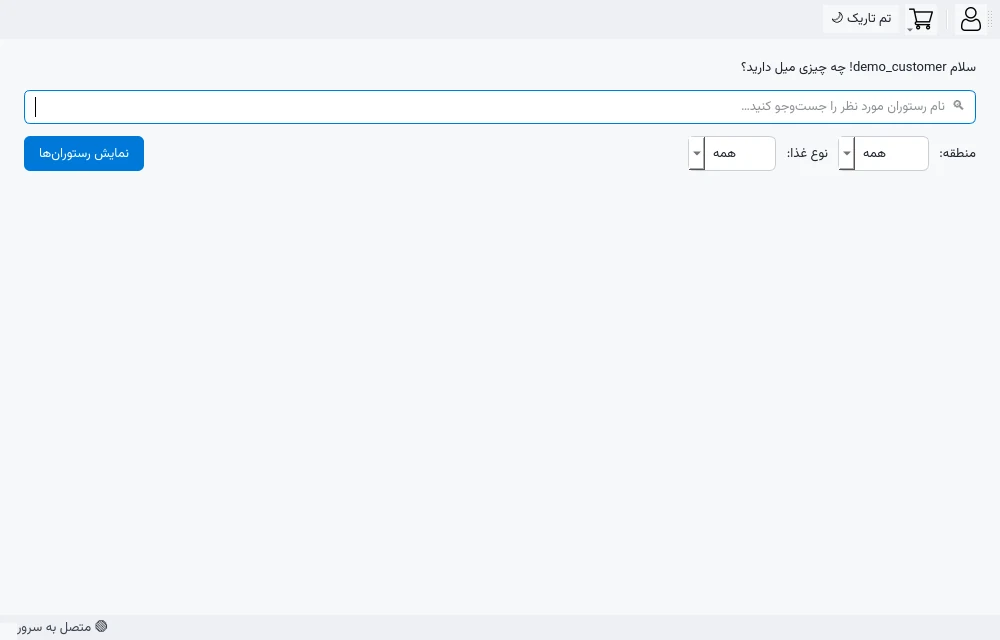
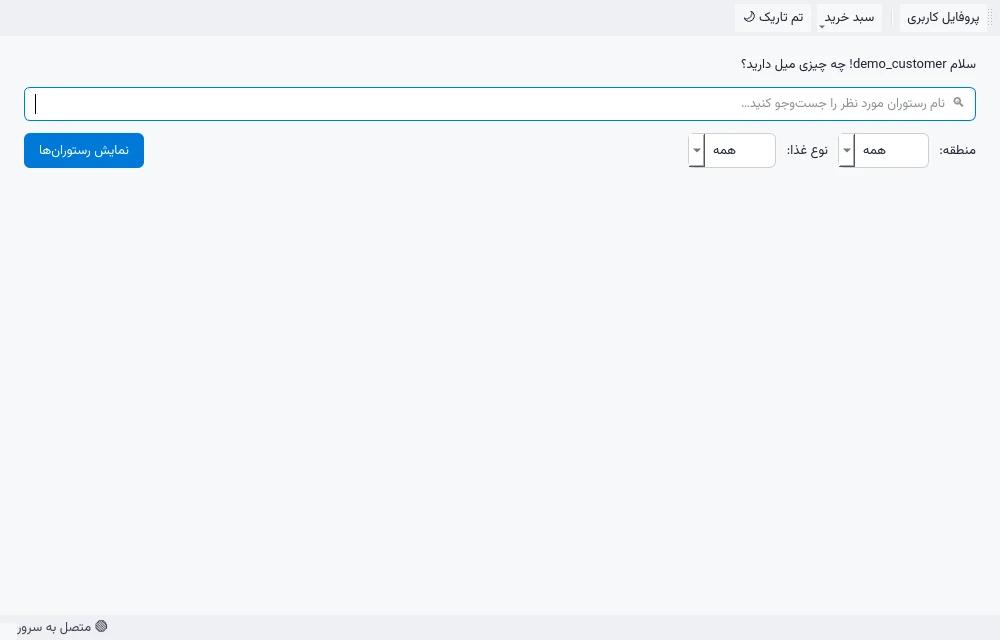
docs: v2.8.0 release notes, a real architecture guide and a fresh gallery

diff --git a/src/common/version.h b/src/common/version.h
@@ -9,6 +9,6 @@
 //! the release now means changing exactly one line here (plus
 //! CHANGELOG.md).  The old hand-synced QStringLiteral("x.y.z") copies
 //! drifted (the screenshot driver still claimed 2.0.0 in v2.5).
-#define IUT_FOOD_VERSION "2.7.0"
+#define IUT_FOOD_VERSION "2.8.0"
 
 #endif // IUT_FOOD_VERSION_H

diff --git a/docs/ARCHITECTURE.md b/docs/ARCHITECTURE.md
@@ -1,0 +1,133 @@
+# IUT-Food architecture
+
+A map of how the two applications are built, how a request travels from
+a button click to a database row, and which security boundaries sit in
+between.  The wire itself is specified in [PROTOCOL.md](PROTOCOL.md);
+this document explains the *why* behind the modules.
+
+## Bird's-eye view
+
+```mermaid
+flowchart TB
+    subgraph client["iut-food-client — one process, three roles"]
+        LAUNCH["MainWindow launcher\nroutes by role"]
+        CUST["Client workspace\ncustomer"]
+        REST["RestaurantWindow\nowner"]
+        ADM["AdminPanel\nadmin"]
+        CART["ShoppingCart +\nCheckoutDialog"]
+        UI["menu / list dialogs,\ntracker, profile"]
+        LAUNCH --> CUST & REST & ADM
+        CUST --> CART --> UI
+    end
+
+    subgraph core["iutfood_core (static lib, shared)"]
+        DBH["DataBaseHandler\nSQLite + prepared stmts"]
+        SEED["DemoData seeder"]
+        HASH["PasswordHasher\nPBKDF2-HMAC-SHA256"]
+        VER["version.h\nsingle release string"]
+    end
+
+    subgraph net["NetworkManager (singleton)"]
+        SOCK["QTcpSocket / QSslSocket"]
+        TOKEN["session token +\nrequest parking queue"]
+    end
+
+    subgraph server["iut-food-server — QCoreApplication"]
+        LISTEN["Server (QTcpServer)"]
+        CH["ConnectionHandler\nnewline-framed JSON"]
+        SESS["SessionManager\n256-bit sliding tokens"]
+        RL["RateLimiter\ntoken bucket / socket"]
+        DIS["command dispatch\n(role + ownership checks)"]
+        MET["MetricsServer\nPrometheus /metrics"]
+        BK["BackupManager\nVACUUM INTO snapshots"]
+        AUD["AuditLog\nJSONL trail"]
+        LOG["Logger\nrotating file"]
+        SDB[("SQLite server.db")]
+        LISTEN --> CH --> DIS --> SDB
+        CH --> SESS & RL
+        DIS --> MET & AUD
+        BK --> SDB
+        LOG --> CH
+    end
+
+    SOCK -- "JSON lines · port 1234 · TLS 1.2/1.3 optional" --> LISTEN
+    CUST & REST & ADM --> NETVIEW["NetworkManager"]
+    NETVIEW --> SOCK
+    core --> client
+    core --> server
+```
+
+## Modules and responsibilities
+
+| Module | Lives in | Responsibility |
+|---|---|---|
+| `DataBaseHandler` | `src/common` | The only place that speaks SQL. Owns the SQLite connection, schema creation and in-place migrations (v1/v2), prepared-statement cache, WAL tuning. |
+| `DemoData` | `src/common` | Seeds restaurants, menus, wallet balances, coupons and the three demo accounts — only when the database is fresh; `--no-demo-data` skips it. |
+| `PasswordHasher` | `src/common` | Salted PBKDF2-HMAC-SHA256; transparent one-time upgrade of legacy unsalted hashes at login. |
+| `version.h` | `src/common` | The single release string; CMake parses it, every binary and the About dialog read it — one line to bump a release. |
+| `NetworkManager` | `src/client` | Singleton TCP client. Newline-delimited JSON, TLS option, session-token attachment, and a parking queue so panels can fire queries before the login round-trip finishes. Since v2.8 it also exposes the server-announced release. |
+| `Server` / `ConnectionHandler` | `src/server` | `QTcpServer` accepts; one handler per connection reads frames, rate-limits, enforces the session, dispatches commands and pushes broadcasts (order status, chat, shutdown). |
+| `SessionManager` | `src/server` | 256-bit random tokens, 30-minute sliding idle lifetime, role per session, logout revocation, store cap. |
+| `RateLimiter` | `src/server` | Token bucket per connection; bursts shed with a `rate_limited` error before they reach the dispatch. |
+| `MetricsServer` | `src/server` | One-shot HTTP/1.0 responder on `--metrics-port`; the same counters the admin health tab reads. |
+| `BackupManager` / `AuditLog` / `Logger` | `src/server` | Rolling `VACUUM INTO` snapshots, JSONL security trail, size-rotated log file — all owned by the server event loop. |
+| GUI windows | `src/client` | Launcher, customer workspace, restaurant dashboard, admin console. The client is offline-first: every mutation hits the local SQLite first and the server is informed / queried opportunistically. |
+
+## Life of a request
+
+1. **Click** — a dialog calls `NetworkManager::sendJson({"command": "get_menu", ...})`.
+2. **Session** — the manager appends the session token (or parks the
+   request in `m_pendingBeforeSession` if the login round-trip is still
+   in flight; the queue is flushed the moment the token arrives).
+3. **Wire** — compact JSON + `\n` over `QTcpSocket`, or `QSslSocket`
+   when the login dialog's TLS switch was ticked.
+4. **Gate** — the server's `ConnectionHandler` reads a frame, applies
+   the rate limiter and the 64 KiB cap, checks the session token and
+   its role, then dispatches. Ownership is checked server-side: a
+   client-sent `user_id` is never trusted.
+5. **Data** — `DataBaseHandler` runs a prepared statement; wallet moves
+   run inside a transaction (payment → order row, or nothing).
+6. **Answer + push** — the reply goes back on the same socket;
+   state changes are additionally broadcast to every other session
+   (`order_status_update_notification`, `new_chat_message_notification`),
+   which is what makes the live tracker move in the customer's window.
+7. **Client lands** — `NetworkManager` re-emits typed signals
+   (`restaurantsReceived`, `orderStatusUpdated`, `operationResult`,
+   `serverVersionReceived`); windows update in place, no polling.
+
+## Security model
+
+| Boundary | Mechanism |
+|---|---|
+| Passwords at rest | salted PBKDF2-HMAC-SHA256 (RFC-vector-tested), transparent legacy migration |
+| Sessions | 256-bit tokens, sliding 30-min expiry, revocation on logout / disconnect |
+| Authorization | role per session + ownership checks in every command; admin commands gated separately |
+| Transport | plaintext TCP for the trusted campus LAN, opt-in TLS 1.2/1.3 (`--tls-cert/--tls-key`), self-signed consent only for demos |
+| Abuse | per-connection token-bucket rate limiting, 64 KiB frame cap, login audit failures |
+| Forensics | JSONL audit trail of logins, moderation, wallet moves and placed orders |
+| Ops | parameterised SQL only; canonical order-state machine; WAL + `synchronous=NORMAL` |
+
+## Threading model
+
+Deliberately single-threaded: one Qt event loop per process, all I/O
+asynchronous (sockets, `QTimer`-driven backups).  No locks exist in the
+codebase because no state is shared across threads; the ~400 req/s
+ceiling of the 2-core benchmark is the cost of that simplicity, and the
+PBKDF2 logins (~30 ms each) are the intentional slow path.  The
+database is opened in `WAL` mode so the demo's two processes (client
+cache + server) never block each other.
+
+## Build layout
+
+- `CMakeLists.txt` builds `iutfood_core` (static), `iutfood_client`
+  (GUI app) and `iut-food-server` (console app); `CMakePresets.json`
+  adds `linux-release`, `linux-debug`, `linux-asan` (ASan+UBSan, the CI
+  sanitizer leg) and `windows-release`.
+- `IUT-Food.pro` / `client.pro` / `server.pro` keep the qmake/Qt Creator
+  path alive for students on course machines.
+- `scripts/smoke_test.py` (53 protocol checks), `tests/` (14 Qt Test
+  suites, 73 cases) and the Docker image healthcheck all verify the
+  same contract from three different directions — CI runs all of them
+  on every push.
+- `scripts/run_demo.sh` is the fastest loop: build-if-needed, seed,
+  healthcheck-wait, launch — see [DEMO.md](DEMO.md).

diff --git a/README.md b/README.md
@@ -32,6 +32,23 @@ course project at Isfahan University of Technology). It ships as **two Qt applic
 The client is offline-first: it keeps a local SQLite cache and degrades gracefully when the
 server is not running, then syncs through the server whenever it is available.
 
+## 🎬 Try it in 60 seconds
+
+```bash
+git clone https://github.com/Abolfazlrwm/IUT_Food.git
+cd IUT_Food
+scripts/run_demo.sh    # builds if needed, seeds a fresh demo DB, starts server + client
+```
+
+The script parks your real database aside, waits for the server's built-in
+`--healthcheck` probe to say *healthy* and puts the launcher on screen —
+closing the client stops the demo and restores your data. Variants:
+`--tls` (encrypted session), `--metrics` (Prometheus on :9101),
+`--no-client` (headless). The full click-by-click tour lives in
+[docs/DEMO.md](docs/DEMO.md):
+
+![demo](docs/images/demo.gif)
+
 ## 🖼 Screenshots
 
 | Launcher | Customer workspace |
@@ -104,6 +121,12 @@ server is not running, then syncs through the server whenever it is available.
   counters in the Prometheus text format (`docs/METRICS.md` has the scrape config and
   PromQL recipes), `--healthcheck` lets the container report its own liveness via the
   unauthenticated `ping` command, and the compose stack wires both in
+- 🪟 **Product-grade desktop UX (v2.8)** — the status bar permanently pins the link
+  state (with a `🔒TLS` badge on encrypted sessions) **and the exact server release the
+  login handshake announced** — the v2.7 wire field finally reaches the user, and the
+  server's `outdated_client` warning surfaces too; `F1` opens About, `Ctrl+Q` quits,
+  `Ctrl+F` jumps into search, tooltips explain every toolbar action and titles carry
+  the release; a one-command demo (`scripts/run_demo.sh`) boots the whole product
 - 🌱 **Self-seeding demo data** — first launch creates restaurants, menus, orders, a review,
   wallet balance and coupons, so every screen has content immediately
 - 🎨 **Bundled Vazirmatn typeface** + full right-to-left UI — Persian renders identically on
@@ -191,7 +214,7 @@ erDiagram
 
 ```bash
 git clone https://github.com/Abolfazlrwm/IUT_Food.git
-cd IUT-Food
+cd IUT_Food
 cmake --preset linux-release          # windows-release on Windows; plain
                                       # "cmake -B build" also works
 cmake --build build/linux-release -j
@@ -317,12 +340,6 @@ database (and one suite against the official RFC vectors):
 | `metrics_tests` (v2.7) | Prometheus text format shape, live gauges, real HTTP 200/404/405 round trips |
 | `csv_tests` (v2.7) | RFC 4180 quoting, CRLF rows, UTF-8 BOM (and the Qt BOM-decoder gotcha), Persian text |
 | `handshake_tests` (v2.7) | ping/pong with version, login version fields, outdated-client warning (real server) |
-| `metrics_tests` (v2.7) | Prometheus text format shape, live gauges, real HTTP 200/404/405 round trips |
-| `csv_tests` (v2.7) | RFC 4180 quoting, CRLF rows, UTF-8 BOM (and the Qt BOM-decoder gotcha), Persian text |
-| `handshake_tests` (v2.7) | ping/pong with version, login version fields, outdated-client warning (real server) |
-| `metrics_tests` (v2.7) | Prometheus text format shape, live gauges, real HTTP 200/404/405 round trips |
-| `csv_tests` (v2.7) | RFC 4180 quoting, CRLF rows, UTF-8 BOM (and the Qt BOM-decoder gotcha), Persian text |
-| `handshake_tests` (v2.7) | ping/pong with version, login version fields, outdated-client warning (real server) |
 
 ```bash
 ctest --test-dir build --output-on-failure    # 14 suites, 73 cases
@@ -388,12 +405,17 @@ IUT-Food/
 ├── fonts/               # Vazirmatn (SIL OFL 1.1)
 ├── docs/
 │   ├── PROTOCOL.md      # full JSON protocol reference
-│   ├── images/          # hero banner (WebP)
+│   ├── ARCHITECTURE.md  # module map, request lifecycle, security model (v2.8)
+│   ├── DEMO.md          # the 60-second demo tour (v2.8)
+│   ├── METRICS.md       # Prometheus scrape config + PromQL recipes
+│   ├── images/          # hero banner + demo animation (WebP/GIF)
 │   └── screenshots/     # real app screenshots (WebP)
 ├── scripts/
+│   ├── run_demo.sh           # one-command demo: build + seed + server + client (v2.8)
 │   ├── smoke_test.py         # end-to-end protocol test (60+ checks)
 │   ├── benchmark.py          # latency / throughput harness
 │   ├── screenshot_driver.cpp # offscreen capture driver for the docs
+│   ├── make_demo_gif.py      # stitches the gallery into docs/images/demo.gif (v2.8)
 │   └── convert_screenshots.py # PNG → WebP for the gallery (v2.6)
 ├── tests/               # fourteen Qt Test suites (run with ctest)
 ├── Dockerfile           # two-stage server image (+ docker-compose.yml)
@@ -417,6 +439,8 @@ IUT-Food/
 - [x] Rotating SQLite backups and a JSONL audit trail (v2.5)
 - [x] Live server-health tab in the admin console + `--no-demo-data` for real deployments (v2.6)
 - [x] One version header, CMake presets, clang-format/tidy baseline and a truthful security policy (v2.6)
+- [x] Prometheus /metrics endpoint, Docker HEALTHCHECK and the client-side version handshake display (v2.7)
+- [x] One-command demo (`scripts/run_demo.sh`), permanent connection/version status bar and desktop UX polish (v2.8)
 - [ ] Per-order chat rooms instead of global broadcast
 - [ ] WebSocket transport option
 - [ ] Telegram bot for order notifications
@@ -441,7 +465,9 @@ test) and match the existing code style (4 spaces, `QStringLiteral`, documented 
 **IUT-Food** یک سامانه سفارش غذای دانشگاهی است که با Qt و C++17 ساخته شده:
 کلاینت گرافیکی برای مشتری، رستوران و مدیر + سرور TCP با قابلیت push لحظهای وضعیت سفارشها و چت.
 در نسخهٔ ۲، **کیف پول، کدهای تخفیف، رهگیری زنده سفارش، حالت تاریک و علاقهمندیها** اضافه شدهاند؛
-نسخهٔ ۲.۴ **لاگ چرخشی و خاموشی تمیز**، نسخهٔ ۲.۵ **پشتیبانگیری چرخشی SQLite و گزارش حسابرسی JSONL** و نسخهٔ ۲.۶ **تب سلامت سرور در پنل مدیریت، پرچم --no-demo-data برای استقرار واقعی و یک هدر نسخهٔ واحد** را میآورد.
+نسخهٔ ۲.۴ **لاگ چرخشی و خاموشی تمیز**، نسخهٔ ۲.۵ **پشتیبانگیری چرخشی SQLite و گزارش حسابرسی JSONL**،
+نسخهٔ ۲.۶ **تب سلامت سرور در پنل مدیریت، پرچم --no-demo-data برای استقرار واقعی و یک هدر نسخهٔ واحد**،
+نسخهٔ ۲.۷ **معیارهای Prometheus و healthcheck داکر** و نسخهٔ ۲.۸ **دموی یکفرمانی، نوار وضعیت دائمی اتصال/نسخه سرور و پولیش کامل تجربه کاربری** را میآورد.
 رابط کاربری کاملاً فارسی و راستبهچپ است و دادههای نمونه در اولین اجرا ساخته میشوند.
 
 ⭐ اگر این پروژه برایتان مفید بود، یک ستاره بزنید!

diff --git a/CHANGELOG.md b/CHANGELOG.md
@@ -3,6 +3,50 @@
 All notable changes to IUT-Food are documented here.
 The format follows [Keep a Changelog](https://keepachangelog.com/) (admittedly loosely).
 
+## [2.8.0] — 2026-11-18
+
+The "presentable" release: one command runs the whole product, the
+client finishes the v2.7 version handshake on screen, and the desktop
+UX gets the polish a reviewer expects.
+
+### Added
+- 🎬 **One-command demo** (`scripts/run_demo.sh`) — builds when needed,
+  parks your database aside, lets the server seed a fresh one, waits
+  for the built-in `--healthcheck` probe and launches the client;
+  `--tls`, `--metrics` and `--no-client` variants; closing the client
+  restores your data.  The click-by-click tour lives in the new
+  `docs/DEMO.md`, and `scripts/make_demo_gif.py` stitches the
+  screenshot gallery into the README's `docs/images/demo.gif`.
+- 🪟 **Permanent connection & server-version status bar** — the
+  customer workspace pins two labels instead of flashing 4-second
+  messages: the link state (with a `🔒TLS` badge on encrypted
+  sessions) and the release the server announced in its login reply.
+- 🖼 **`docs/ARCHITECTURE.md`** — module map, the life of a request,
+  the security-model table and the threading model in one document.
+
+### Changed
+- 🤝 **The client listens to the version handshake** — since v2.7 every
+  login reply carries `server_version`; the client kept dropping the
+  field.  `NetworkManager::serverVersion()` plus two new signals
+  surface it in the status bar, and the server's `outdated_client`
+  warning finally reaches the user as a 12-second status message.
+- ⌨ **Desktop-standard shortcuts & hints** — `F1` opens About (which
+  now names the MIT license and the repository), `Ctrl+Q` quits,
+  `Ctrl+F` jumps into the restaurant search (which gained a clear
+  button), tooltips explain every launcher button and toolbar action,
+  and window titles carry the running release.
+
+### Fixed
+- 🧯 **Flaky snapshot collisions on coarse clocks** — two rapid
+  snapshots could land on the same millisecond stamp, and `VACUUM INTO`
+  refuses to overwrite an existing file (it made the backup retention
+  test fail intermittently under ctest).  Destinations are now
+  uniquified with zero-padded suffixes, keeping lexical order ==
+  chronological order for pruning.
+- 📖 **README test table repeated the three v2.7 suites three times** —
+  one row per suite again; the clone instructions also say
+  `cd IUT_Food` (the directory git actually creates).
+
 ## [2.7.0] — 2026-11-18
 
 The "observable & operational" release: the server joins standard
